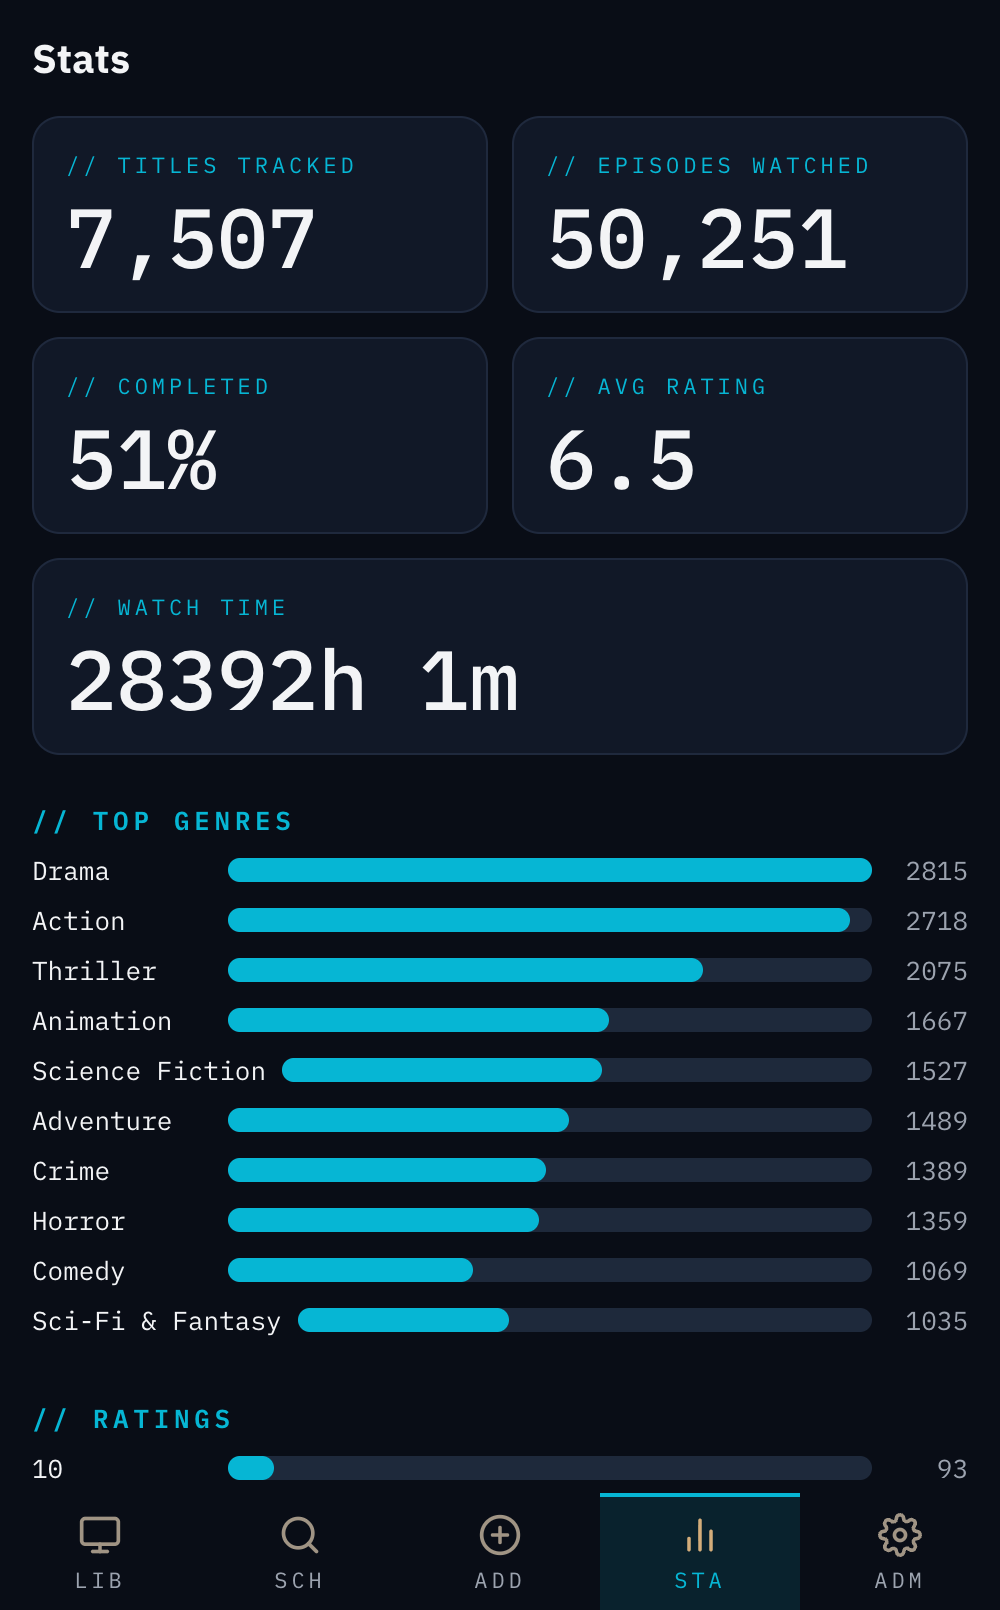
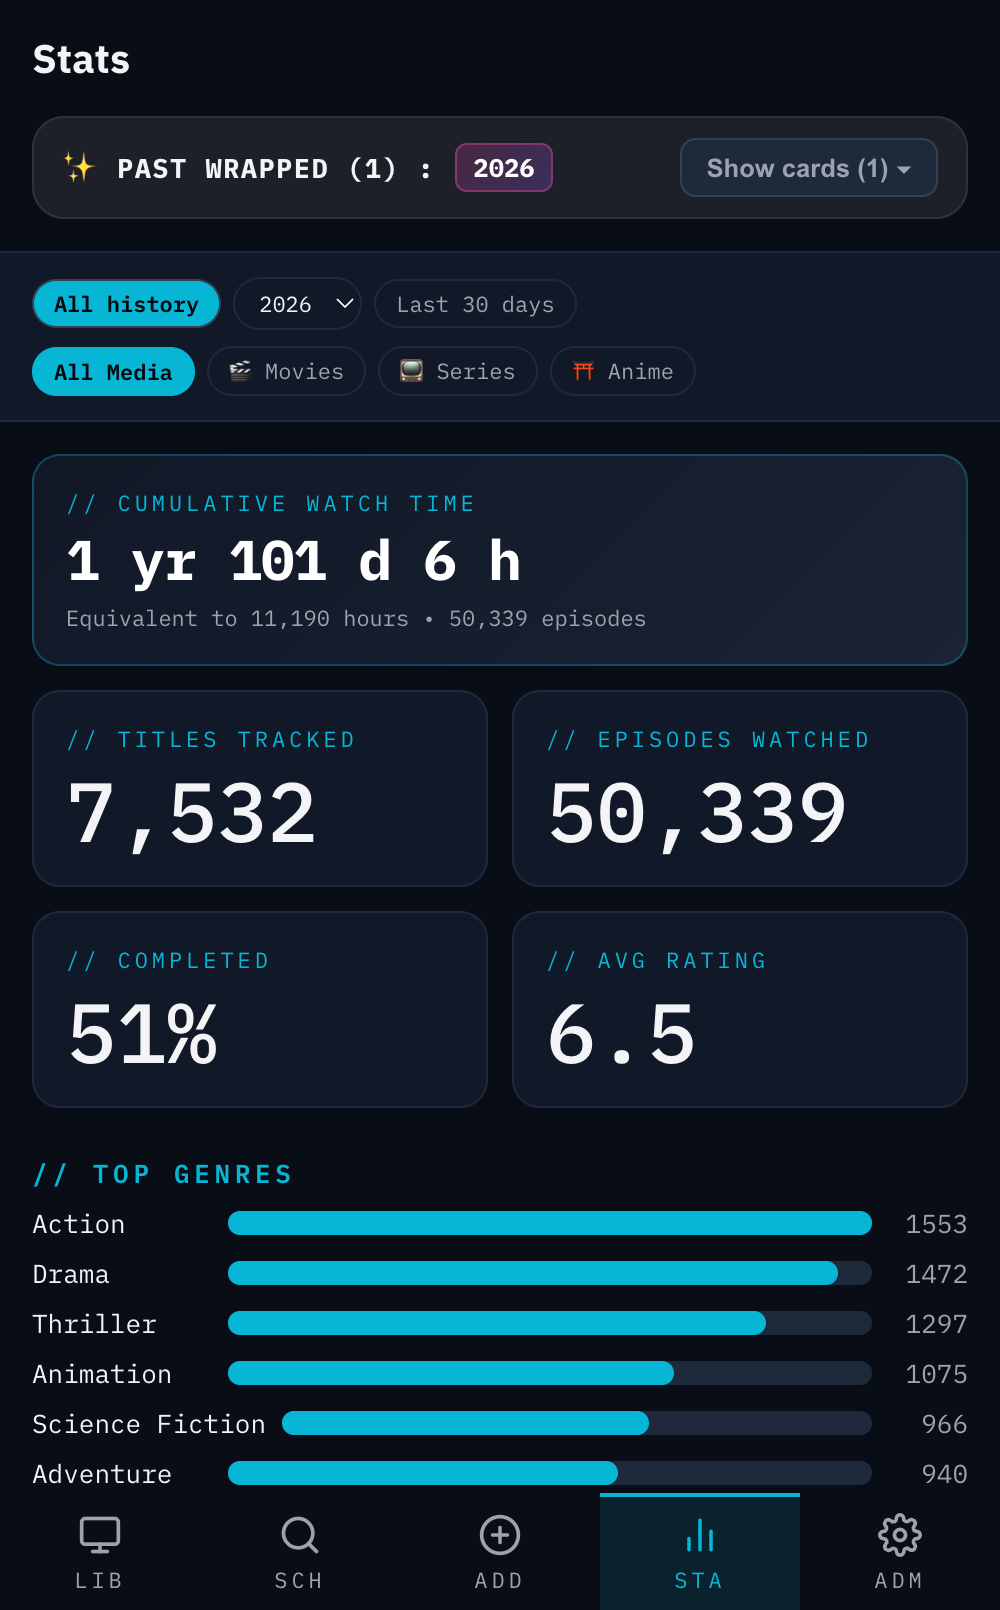
docs(audit): synchronisation de la documentation et des captures d'écran v1.21.5
- Régénération complète des 7 captures d'écran en 1000x1610 sur base de données de production.
- Synchronisation de docs/INDEX.md, overview.md, user-guide.md, api-setup.md, integrations.md, deployment.md, llm.md, patterns.md et dev/*.
- Harmonisation des routes d'administration SPA vers /admin/settings.
- Bump de version vers v1.21.5.

Co-Built-By: Antigravity (capturing pixels sharper than a 4K laser disc)

diff --git a/internal/version/version.go b/internal/version/version.go
@@ -2,7 +2,7 @@ package version
 
 var (
 	// Version is the semantic version of the application. Overridden via -ldflags at build time.
-	Version = "v1.21.4"
+	Version = "v1.21.5"
 	// Commit is the git commit SHA. Overridden via -ldflags at build time.
 	Commit = "none"
 	// BuildDate is the date and time of the build. Overridden via -ldflags at build time.

diff --git a/docs/INDEX.md b/docs/INDEX.md
@@ -10,10 +10,16 @@ Welcome to the official **Trackarr** documentation suite. Explore the dedicated 
 - What Trackarr does and does not do.
 - Mobile PWA access & installation (Android WebAPK, iOS, Desktop).
 - App shortcuts & dynamic badge counter.
+- Calendar, Wrapped, Franchise tracking, and streaming provider highlights.
 
 ### 2. [User Guide & Troubleshooting](user-guide.md)
 - Complete UI walkthrough: Library statuses (*Watching*, *Caught up*, *Completed*, *Plan*, *Dropped*).
-- Gestures & shortcuts: One-tap progress pill, multi-select mode, swipe actions, pull-to-refresh.
+- Multi-View Calendar (Month, Week, List) and RFC 5545 iCal subscription feed (`/coming-up`).
+- Filterable Stats insights, decomposed watch time, Year/Media filters, Top Cast & interactive filmography drawer (`/stats`).
+- Trackarr Wrapped annual retrospective story player and immutable archives gallery (`/wrapped`).
+- Unified Franchise & History Hub Bar with slide-up bottom sheets, Next Episode Hero, and Binge Estimator.
+- Single-line closed filter handle, scrolling dismissible chips, and compact filter drawer with selects.
+- Gestures & shortcuts: Universal Undo snackbar, circular `+1` quick mark, multi-select mode, swipe actions, pull-to-refresh.
 - Match Review, Rematching, and Season Audit.
 - Comprehensive Q&A and troubleshooting based on real-world edge cases.
 
@@ -25,6 +31,7 @@ Welcome to the official **Trackarr** documentation suite. Explore the dedicated 
 - Real-time scrobbling via **Jellyfin** & **Plex** webhooks (template and deduplication).
 - **AniList** bidirectional sync (progress, scores, multi-part season chaining).
 - **Radarr & Sonarr** (*arr) integration, Arr Queue, and Prowlarr releases.
+- Configurable streaming watch providers (Netflix, Prime Video, Disney+, Apple TV+, Max, Canal+, Crunchyroll, Paramount+, ADN).
 
 ### 5. [Deployment & Updates](deployment.md)
 - **Option 1: Automated Updates via Watchtower** (Recommended).
@@ -33,9 +40,11 @@ Welcome to the official **Trackarr** documentation suite. Explore the dedicated 
 - Bare-metal Go/Systemd deployment, environment variables, and reverse proxy setup.
 
 ### 6. [Maintenance & Operations](maintenance.md)
+- 1-Click Web UI Export & Import (JSON, CSV, Trakt.tv sync) with dry-run preview.
 - Automated dependency management via Dependabot.
+- Weekly documentation, i18n & hardcoded text audit workflow (`weekly-docs-audit.yml`).
 - Online SQLite WAL backup and restoration procedures.
-- Emergency CLI maintenance commands.
+- Emergency CLI maintenance commands (`reset-password`, `backfill-accents`, `version`, `import`).
 
 ### 7. [LLM Context Reference](llm.md)
 - High-density, token-optimized technical reference for AI assistants and LLMs.

diff --git a/README.md b/README.md
@@ -59,11 +59,15 @@
 ## ⚡ Why Trackarr?
 
 - 🚀 **Ultra-Lightweight Go Backend**: Single binary with embedded SQLite WAL and embedded web assets. Idles at **under 30 MB of RAM**, perfectly suited for low-power Synology NAS, Unraid, TrueNAS, Raspberry Pi, and VPS.
-- 📱 **PWA Mobile-First for Android**: Tailored specifically for Android devices (Chrome / Android PWA engine) with native share sheet integration (`Share to Trackarr`), haptic feedback, swipe gestures, and instant pull-to-refresh.
+- 📱 **PWA Mobile-First for Android**: Tailored specifically for Android devices (Chrome / Android PWA engine) with native share sheet integration (`Share to Trackarr`), haptic feedback, swipe gestures, universal undo countdowns, and instant pull-to-refresh.
 - 🎬 **Universal Scrobbling**: Real-time webhook scrobbling from **Jellyfin** and **Plex** with automatic watch time, progress tracking, and catch-up badges.
+- 📆 **Multi-View Calendar & iCal Subscription**: Monthly grid, weekly timeline, and chronological lists with token-secured RFC 5545 calendar feed for Apple Calendar and Google Calendar.
 - 🌸 **AniList 2-Way Sync & Multi-Part Anime**: Seamlessly handles anime seasons split across multiple AniList entries (e.g. Cour 1 / Cour 2) with automated bidirectional rating, progress, and status synchronization.
 - 🤖 **AI-Assisted Title Matching**: Multi-tiered reconciliation engine (Plex/Jellyfin IDs ➔ TMDB ➔ TVDB ➔ AniList ➔ Google Gemini AI fuzzy resolution) for zero-headache metadata accuracy.
+- 🏛 **Sagas, Universes & Franchise Hub**: Compact glance rows, chronological timeline ordering, watch completion gauges, and 1-click addition of missing movies/series.
+- 📺 **Streaming Watch Providers**: Configurable active subscriptions highlighting availability directly on cards and sheets (Netflix, Prime Video, Disney+, Apple TV+, Max, etc.).
 - 📥 ***arr Automation (Radarr & Sonarr)**: Check library status directly on title detail sheets and push missing movies/shows straight to your Radarr/Sonarr download queues.
+- ✨ **Trackarr Wrapped**: Annual viewing retrospective story player with Gemini AI viewing persona, top favorites, release rankings, and past archive gallery.
 - 🎨 **4 Modern Themes**: In-app theme switcher featuring *Cyber Cyan*, *Sunset Coral*, *Emerald Teal*, and *Vault Amber*.
 
 ---

diff --git a/docs/llm.md b/docs/llm.md
@@ -44,6 +44,9 @@
    - Active filter state is held in Zustand `useTitleStore` and persists across title navigation and tab switches until explicit reset or reload.
 8. **Unified Hub Bar & BottomSheet Drawers**:
    - On `TitleDetail`, the previous stacked ~720px franchise card and history buttons are unified into a compact ~100px Hub Bar with summary glance rows, opening slide-up `BottomSheet` drawers and elevating season/episode lists by ~600px for immediate mobile visibility.
+9. **Title Rematch & Creation Enrichment Payloads**:
+   - `TitleService.Rematch` accepts an optional `titleType *model.TitleType` alongside external IDs, allowing users to align mismatched media kinds (e.g. series misclassified as movies) during rematch without direct database surgery.
+   - `CreateAndEnrich` constructs a fully populated `EnrichmentPayload` (including primary title name, year, media type, anime flag, external IDs, and match status preservation) with deduplication key `enrichment:%d`, preventing type regression or fallback during async worker execution.
 
 ---
 
@@ -59,7 +62,7 @@
 - `season_external_ids`: Per-part AniList season mappings (`season_id`, `provider: 'anilist'`, `external_id`, `anilist_episode_count`, `anilist_start_date`, `anilist_average_score`, `sort_order`).
 - `title_relations`: Side stories, sagas, and franchise relations (`title_id`, `season_id`, `provider: 'anilist'|'tmdb'|'tvdb'`, `external_id`, `relation_type: 'PREQUEL'|'SEQUEL'|'SPIN_OFF'|'SIDE_STORY'|'ALTERNATIVE'|'COLLECTION'`, `format`, `title`, `cover_url`, `year`, `score`, `overview`, `sort_order`).
 - `season_audit_dismissals`: Dismissed merge proposals (`source_title_id`, `target_title_id`).
-- `wrapped_snapshots`: Immutable annual retrospective snapshots (`year`, `data_json`, `created_at`).
+- `wrapped_snapshots`: Immutable annual retrospective snapshots (`year`, `data_json`, `created_at`, migrations 044–046; empty snapshots are purged).
 - `settings`: Key-value config store (`radarr_url`, `sonarr_url`, `prowlarr_url`, `admin_password_hash`, `admin_recovery_key_hash`, `jwt_secret`, `vapid_public_key`, `vapid_private_key`, `push_subscription`, `metadata_language`, `enabled_watch_providers`, `calendar_token`, notification preferences). Sessions use signed JWT in HTTP cookies.
 
 ---

diff --git a/docs/integrations.md b/docs/integrations.md
@@ -2,7 +2,7 @@
 
 [← Back to Index](INDEX.md)
 
-This guide covers real-time webhooks, media server scrobbling (Jellyfin / Plex), AniList bidirectional sync, and the Radarr / Sonarr (*arr) stack integration.
+This guide covers real-time webhooks, media server scrobbling (Jellyfin / Plex), AniList bidirectional sync, the Radarr / Sonarr (*arr) stack, and streaming watch providers.
 
 ---
 
@@ -59,7 +59,7 @@ Trackarr maintains continuous, bidirectional synchronization with AniList:
 
 Manage your media library and track availability seamlessly:
 
-### Configuration (`/admin/arr` & `/admin/system-settings`):
+### Configuration (`/admin/arr` & `/admin/settings`):
 - **Radarr**: Configure URL (`http://radarr:7878`), API Key, default Root Folder, and Quality Profile.
 - **Sonarr**: Configure URL (`http://sonarr:8989`), API Key, Standard Profile, Anime Profile, and Root Folder.
 
@@ -69,3 +69,12 @@ Manage your media library and track availability seamlessly:
 - **Arr Icon Badges**: 18px indicator pills on search and list cards.
 - **Direct Arr Push**: Send titles directly to Radarr or Sonarr from the title detail sheet (**Actions ➔ More ➔ Send to Radarr/Sonarr**).
 - **Prowlarr Releases**: View indexer releases on `/releases` with multi-indexer filtering, year filtering, and add media directly to Trackarr with 1-click **+ Add**.
+
+---
+
+## 4. Streaming Watch Providers
+
+Trackarr displays streaming badges directly on movie and series detail sheets, indicating whether titles in your watchlist are available on your active subscriptions:
+- **Supported Providers**: Netflix, Amazon Prime Video, Disney+, Apple TV+, Max, Canal+, Crunchyroll, Paramount+, and Animation Digital Network (ADN).
+- **Configuration**: Navigate to **Admin Dashboard ➔ System Settings (`/admin/settings`) ➔ Streaming Providers** to check and activate the platforms you subscribe to.
+- **Automated Updates**: Availability is automatically queried and refreshed via TMDB Watch Providers during routine metadata synchronization passes.

diff --git a/docs/overview.md b/docs/overview.md
@@ -11,11 +11,16 @@
 ### What Trackarr Does
 - **Automatic Scrobbling**: Automatically logs finished movies and episodes via Jellyfin and Plex webhooks.
 - **Unified Library**: Track your media across standard statuses: *Watching*, *Caught up*, *Plan to Watch*, *Completed*, and *Dropped*.
-- **Instant Episode Progress**: One-tap progress tracking with episode counters and upcoming air dates.
+- **Instant Episode Progress**: One-tap progress tracking with episode counters, next episode hero actions, and upcoming air dates.
 - **Ratings & AniList Sync**: Native 1–10 scoring with automatic background synchronization to AniList (including multi-part season chaining).
 - ***arr Stack Integration**: Live checks with Radarr and Sonarr, colored status borders, and direct queue management.
 - **Prowlarr Releases Feed**: 1-click addition from your indexer releases into Trackarr.
 - **Smart Matching Engine**: Resolves external IDs across TMDB, TVDB, IMDb, and AniList with Gemini AI verification.
+- **Multi-View Calendar & iCal Export**: Monthly grid, weekly timeline, and chronological lists (`/coming-up`) with token-secured RFC 5545 calendar subscription feed.
+- **Sagas & Franchise Hub**: Chronological timeline ordering for movie collections, TV universes, and anime side stories with completion gauges and 1-click missing title additions.
+- **Configurable Streaming Providers**: Availability badges for active streaming subscriptions (Netflix, Prime Video, Disney+, Apple TV+, Max, etc.).
+- **Universal Undo & Haptics**: 5-second perimeter radial timer countdown allowing instant rollback of progress changes and deletions.
+- **1-Click Backup & Restore**: Full JSON, spreadsheet CSV, and Trakt.tv archive exports plus drag-and-drop backup import with dry-run verification.
 - **Trackarr Wrapped**: Interactive multi-slide annual retrospective with Gemini AI viewing persona, top favorites, release rankings, rewatch champion, and custom fun facts.
 
 ### What Trackarr Intentionally Does NOT Do

diff --git a/CHANGELOG.md b/CHANGELOG.md
@@ -6,6 +6,14 @@ Le format est basé sur [Keep a Changelog](https://keepachangelog.com/fr/1.1.0/)
 
 ## [Unreleased]
 
+## [v1.21.5] — 2026-09-15
+
+### Modifié
+- **Audit exhaustif et synchronisation de la documentation et des captures d'écran** :
+  - Régénération intégrale des captures d'écran de l'application (`docs/screenshots/01-library.png` à `07-admin.png`) en haute définition mobile (1000x1610) sur une base de données réelle (7 532 titres), reflétant fidèlement le tiroir de filtres compact avec menus déroulants, la poignée fermée mono-ligne, le héros du prochain épisode avec estimateur de binge, les badges de disponibilité Arr/streaming, le snackbar d'annulation universel et la décomposition naturelle du temps de visionnage.
+  - Mise à jour et enrichissement du sommaire maître (`docs/INDEX.md`), du guide d'introduction (`docs/overview.md`), du guide utilisateur (`docs/user-guide.md`), de la configuration API (`docs/api-setup.md`), des intégrations (`docs/integrations.md`), du déploiement (`docs/deployment.md`), de la maintenance (`docs/maintenance.md`), de la référence LLM (`docs/llm.md`), des patterns d'architecture (`docs/patterns.md`), des tâches de fond (`docs/background-jobs.md`), du modèle de BDD (`docs/dev/database-model.md`), du pipeline de matching (`docs/dev/matching-pipeline.md`) et du fichier `README.md`.
+  - Harmonisation des routes d'administration SPA vers `/admin/settings` (correction des anciennes références `/admin/system-settings`).
+
 ## [v1.21.4] — 2026-09-15
 
 ### Ajouté

diff --git a/docs/deployment.md b/docs/deployment.md
@@ -84,8 +84,16 @@ When launching Trackarr for the first time with a fresh database:
 | `VAPID_PUBLIC_KEY` | Web Push public key | — | Optional |
 | `VAPID_PRIVATE_KEY` | Web Push private key | — | Optional |
 | `VAPID_SUBJECT` | Web Push contact mailto (`mailto:user@domain.com`) | — | Optional |
+| `RADARR_URL` / `RADARR_API_KEY` | Radarr instance URL and API Key | — | Optional |
+| `SONARR_URL` / `SONARR_API_KEY` | Sonarr instance URL and API Key | — | Optional |
+| `PROWLARR_URL` / `PROWLARR_API_KEY` | Prowlarr instance URL and API Key | — | Optional |
+| `JELLYFIN_WEBHOOK_SECRET` | Secret token for Jellyfin webhook authentication | — | Optional |
+| `PLEX_WEBHOOK_SECRET` | Secret token for Plex webhook authentication | — | Optional |
+| `COOKIE_SECURE` | Enforce HTTPS Secure flag on session cookies (`true`/`false`) | `false` | Recommended on HTTPS |
+| `METADATA_LANGUAGE` | Preferred language code for title metadata | `fr` | No |
+| `DISABLE_BACKGROUND_TASKS` | Disable 24h cron ticker and background task queue worker | `false` | No |
 
-> ℹ *Tip: All API keys (TMDB, AniList, Radarr, Sonarr, Prowlarr) can also be configured dynamically at runtime from the **Admin Dashboard** (`/admin`).*
+> ℹ *Tip: All API keys and integration URLs (TMDB, AniList, Radarr, Sonarr, Prowlarr) can also be configured dynamically at runtime from the **Admin Dashboard** (`/admin`).*
 
 ---
 

diff --git a/docs/dev/database-model.md b/docs/dev/database-model.md
@@ -37,7 +37,7 @@ Because `MaxOpenConns = 1`, acquiring a new write transaction while already hold
 - `task_queue`: Asynchronous background jobs. Columns: `id`, `task_type`, `payload`, `status` (`pending`/`running`/`completed`/`failed`/`dead`), `attempts`, `max_attempts`, `run_at`, `created_at`, `updated_at`, `last_error`, `dedup_key`.
 - `match_events`: Audit log for automated actions. Columns: `id`, `title_id`, `kind` (`auto_confirmed`, `season_attached`), `detail`, `created_at`.
 - `season_audit_dismissals`: Discarded duplicate merge proposals. Primary Key: `(source_title_id, target_title_id)`. Columns: `source_title_id`, `target_title_id`, `created_at`.
-- `wrapped_snapshots`: Immutable annual retrospective snapshots. Primary Key: `year`. Columns: `year`, `data_json`, `created_at`.
+- `wrapped_snapshots`: Immutable annual retrospective snapshots. Primary Key: `year`. Columns: `year`, `data_json`, `created_at` (migrations 044–046; empty snapshots are purged).
 - `settings`: Key-value configuration store (`radarr_url`, `sonarr_url`, `prowlarr_url`, `admin_password_hash`, `admin_recovery_key_hash`, `jwt_secret`, `vapid_public_key`, `vapid_private_key`, `push_subscription`, `metadata_language`, `enabled_watch_providers`, `calendar_token`, notification preferences, etc.). Columns: `key`, `value`.
 
 ## Title Merge Invariants (`TitleWriter.Merge`)

diff --git a/docs/dev/matching-pipeline.md b/docs/dev/matching-pipeline.md
@@ -61,3 +61,5 @@ After ID resolution:
 ## Key Invariants
 - **`year` and `release_date`**: Populated **strictly during enrichment** (`buildEnrichmentUpdate` in `task_enrichment.go`), **NEVER** modified during routine refresh (`BackgroundService.refreshTitle`). If a title has `year=0`, trigger a rematch (`POST /api/titles/{id}/rematch`).
 - **Seasons creation**: Seasons are created only by refresh (`TaskTypeRefresh` via TMDB) or first watched episode scrobble (`SeasonWriter.GetOrCreate`), never during initial enrichment payload generation.
+- **Title Type Alignment on Rematch**: `POST /api/titles/{id}/rematch` accepts an optional `type` parameter (`movie` / `series`). When provided, it updates `titles.type` and propagates the type to `EnrichmentPayload` with `PreserveMatch = true`, ensuring type corrections stick without resetting confirmed match status.
+- **Creation Enrichment Payloads**: New titles created via `CreateAndEnrich` enqueue a fully populated `EnrichmentPayload` (including primary name, year, type, anime flag, external IDs, and match status) using deduplication key `enrichment:%d`. If bare `{"title_id": ...}` payloads are encountered, `HandleEnrichment` safely recovers the existing type and state from the database without defaulting to movie.

diff --git a/docs/api-setup.md b/docs/api-setup.md
@@ -6,7 +6,7 @@
 
 This guide walks you through obtaining and configuring every external API key and integration supported by **Trackarr**.
 
-All API keys can be set either via environment variables (`.env` / `.env.local` / Docker environment) or configured directly inside Trackarr via the **Admin Dashboard** (`/admin/system-settings` and `/admin/anilist`).
+All API keys can be set either via environment variables (`.env` / `.env.local` / Docker environment) or configured directly inside Trackarr via the **Admin Dashboard** (`/admin/settings` and `/admin/anilist`).
 
 ---
 
